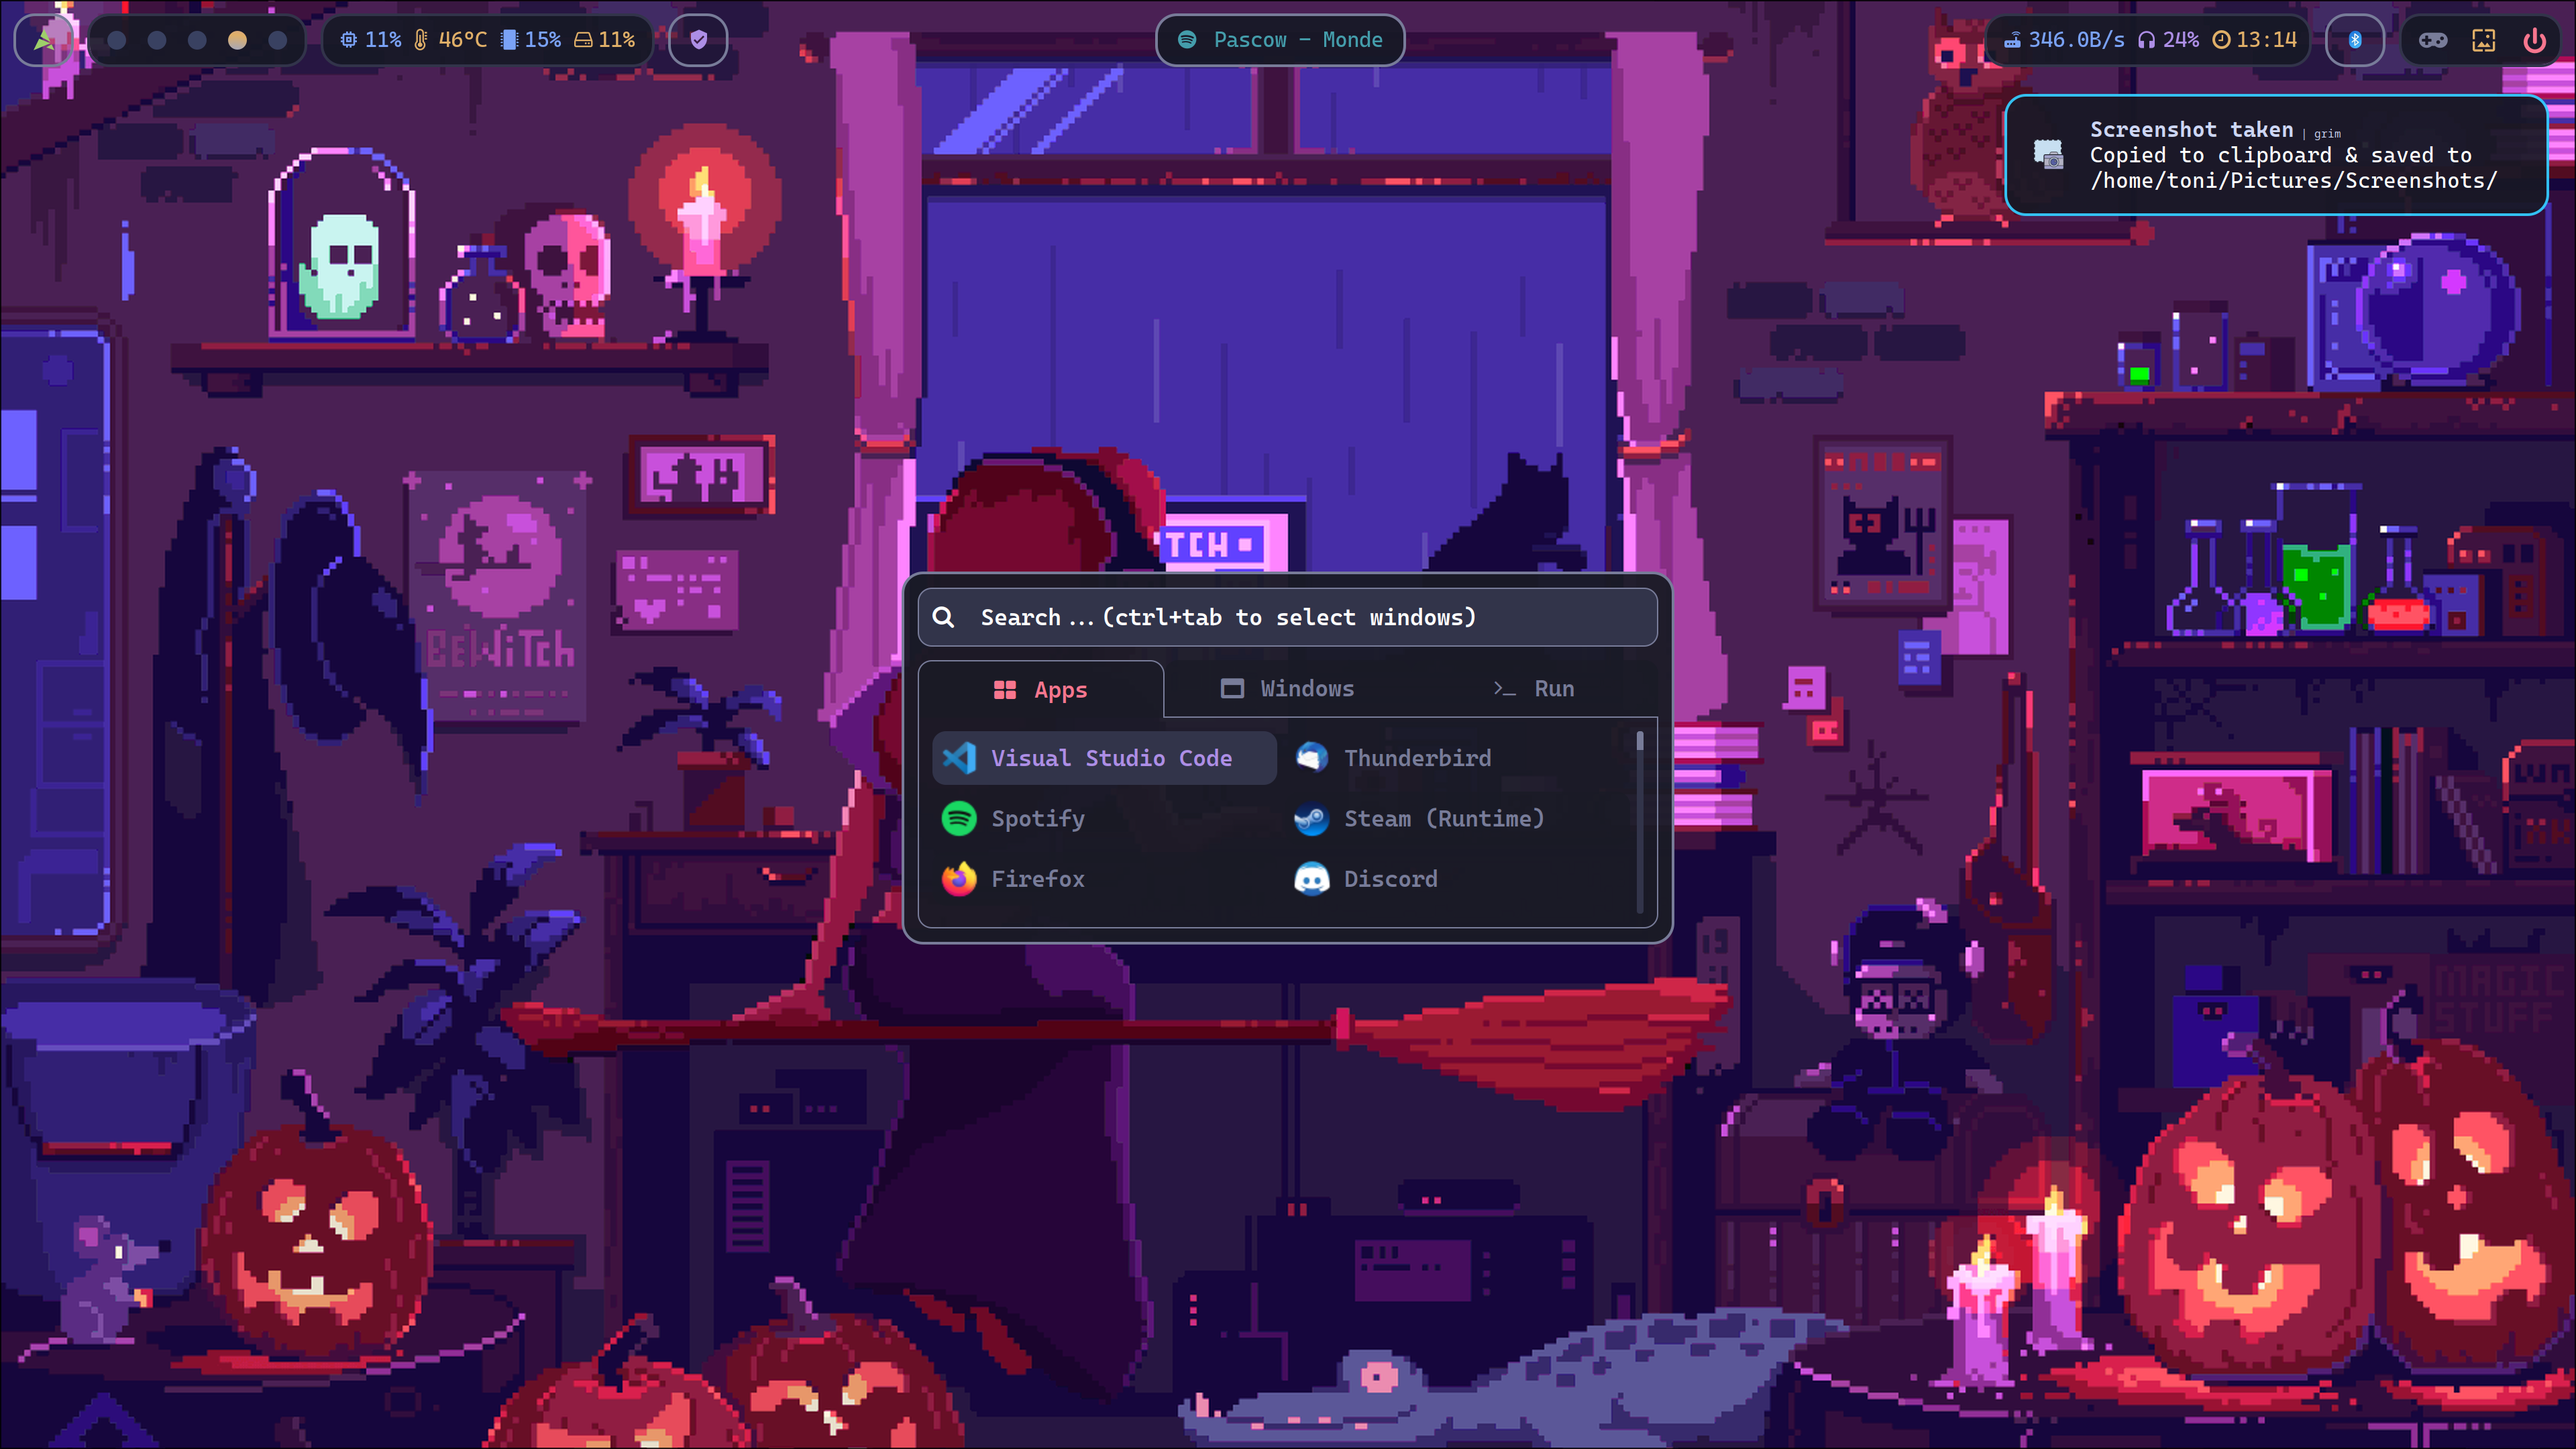
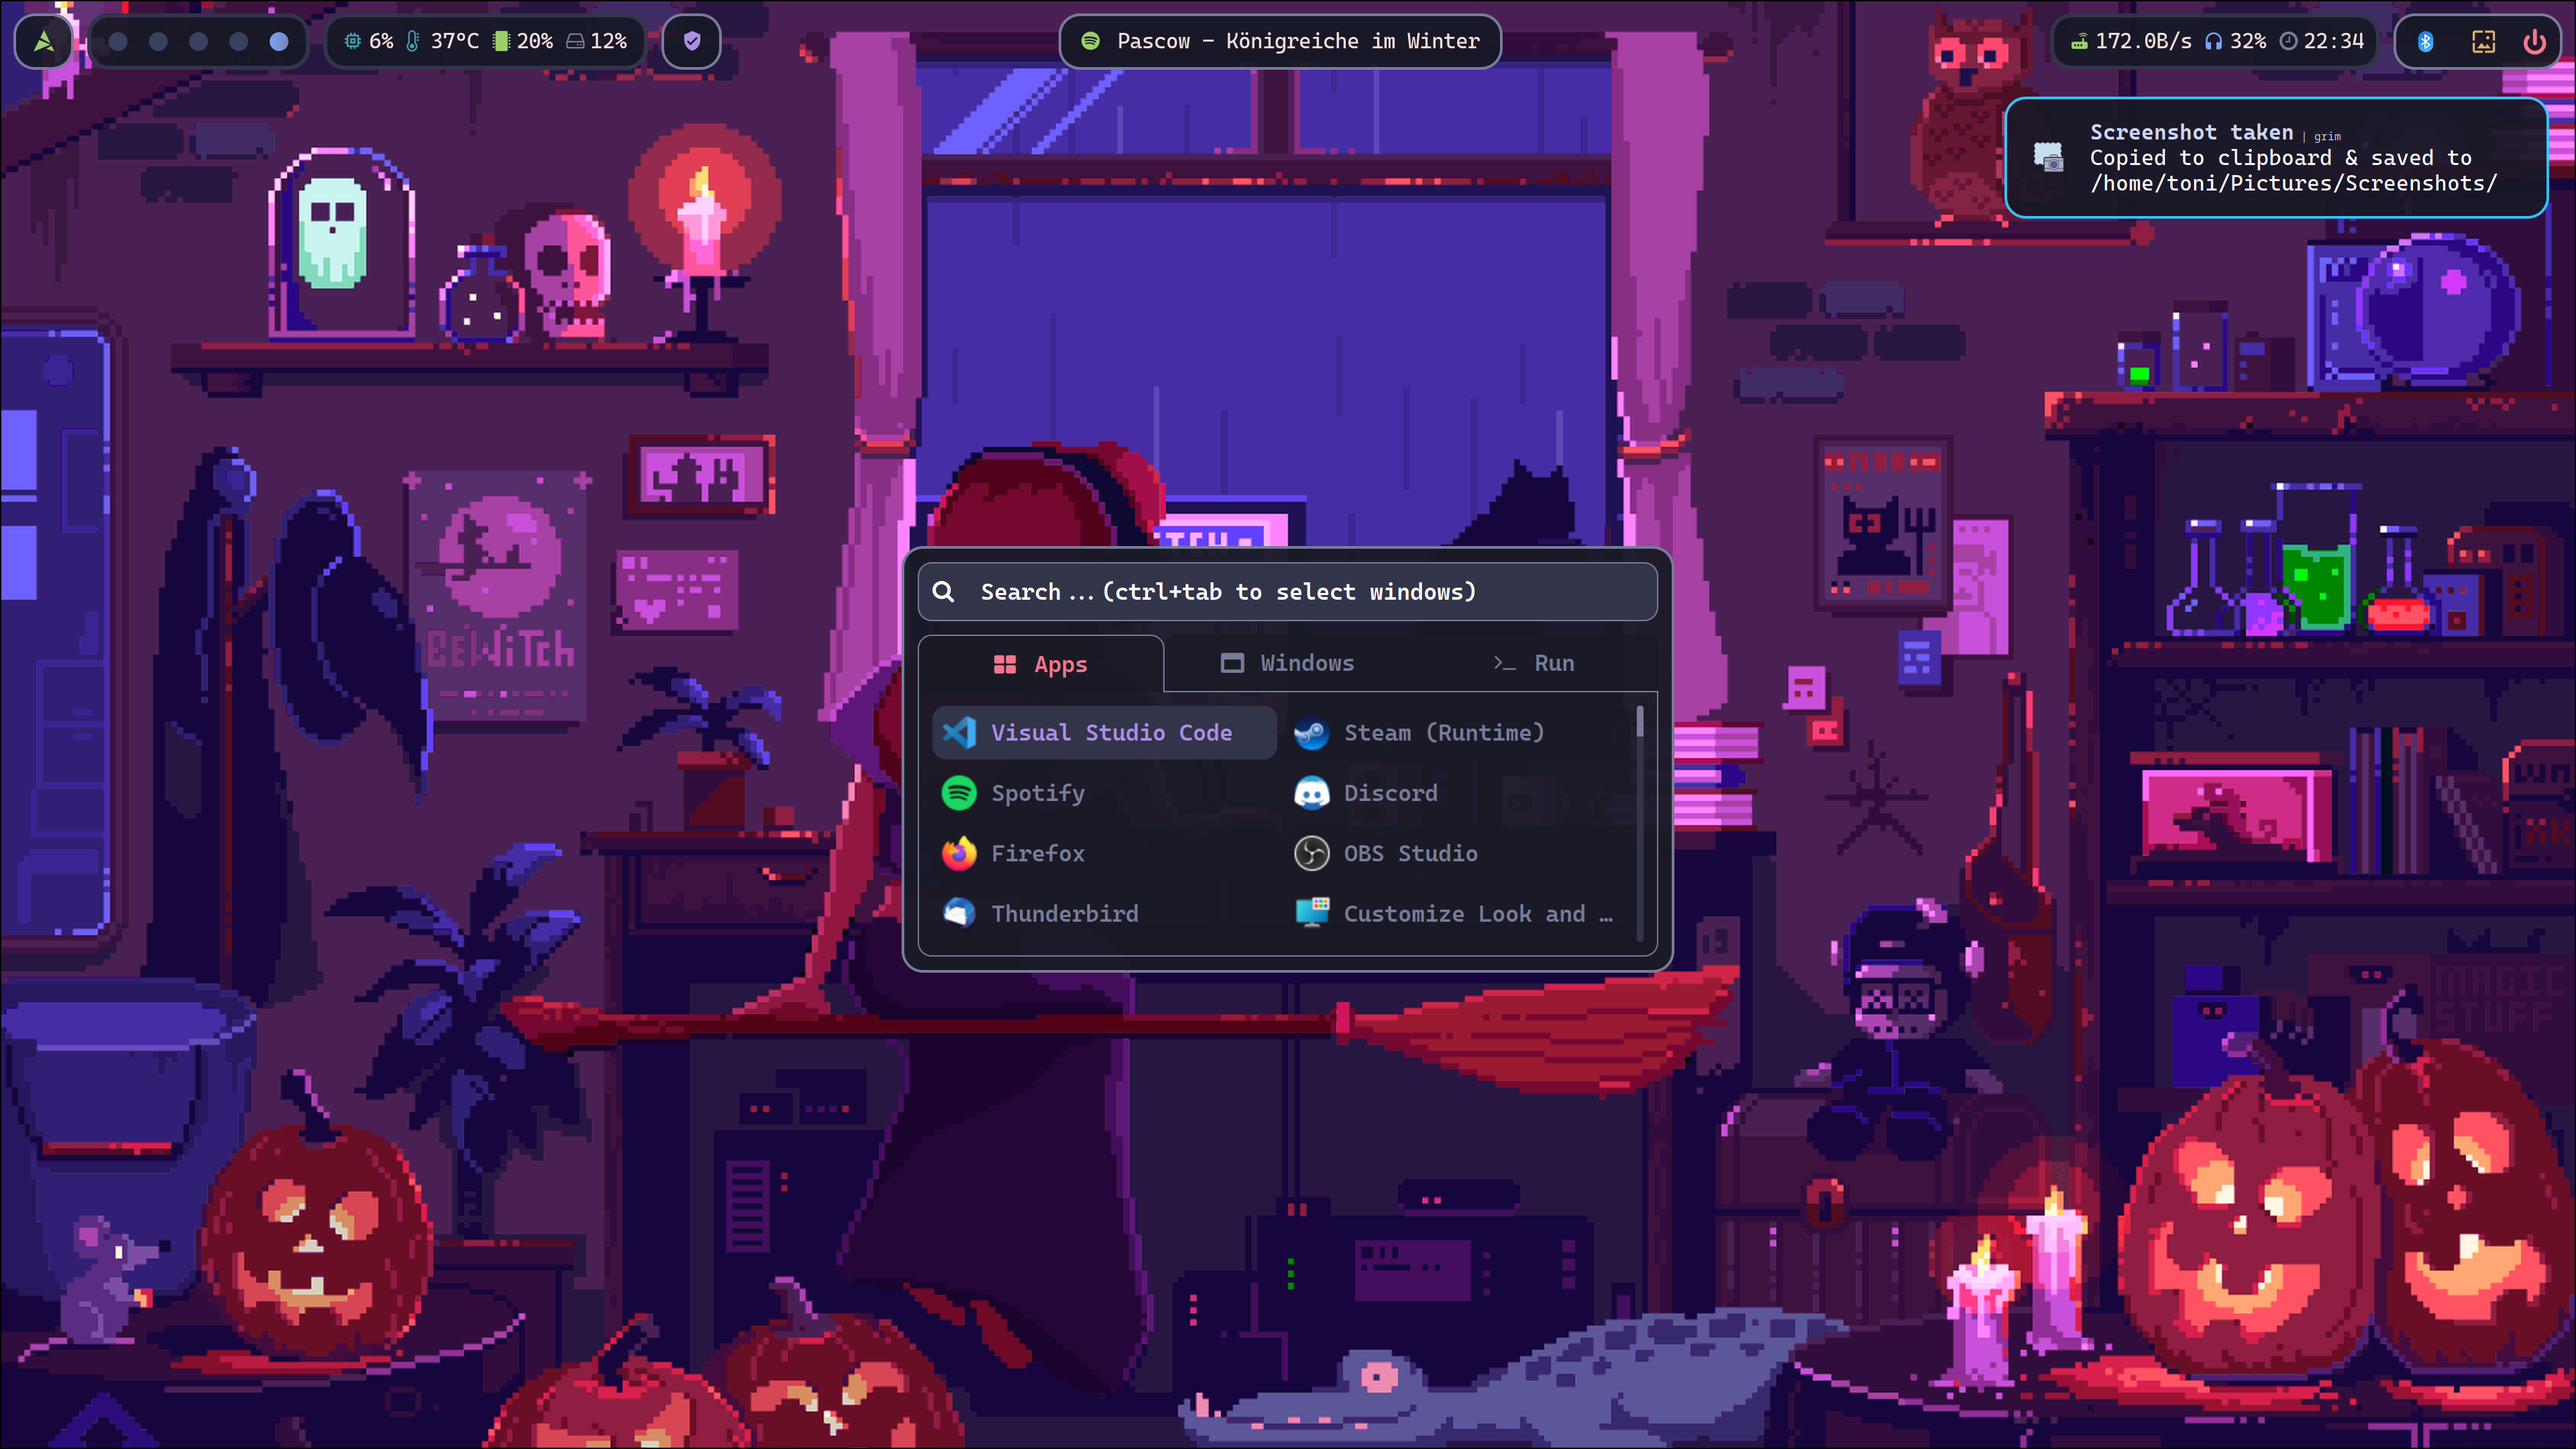
color of waybar change; spotify meta data retrieval adapted

diff --git a/user-home-folder/.config/waybar/style.css b/user-home-folder/.config/waybar/style.css
@@ -60,7 +60,7 @@ div * {
 
 /* Left modules - definition */
 #custom-launcher {
-    background-color: @surface1;
+    /* background-color: @surface1; */
     border: solid 2px;
     border-color: @tokio_night_white;
     color: @tokio_night_green;
@@ -70,11 +70,10 @@ div * {
 }
 
 #workspaces {
-    border: solid 2px;
+    border: solid 3px;
     border-color: @tokio_night_black;
     padding-left: 5px;
     padding-right: 5px;
-    
 }
 
 #workspaces * {
@@ -95,8 +94,8 @@ div * {
 #workspaces button.active {
     animation: gradient_f 10s ease-in-out infinite;
     background: radial-gradient(circle,
-        @tokio_night_blue 0%,
-        @tokio_night_yellow 50%,
+        @tokio_night_white 0%,
+        @tokio_night_blue 50%,
         @tokio_night_magenta 100%
     );
     background-size: 400% 400%;
@@ -108,23 +107,23 @@ div * {
 }
 
 #cpu {
-    border: solid 2px;
+    border: solid 3px;
     border-right: 0px;
     border-color: @tokio_night_black;
     border-top-right-radius: 0;
     border-bottom-right-radius: 0;
-    color: @tokio_night_blue;
+    color: @tokio_night_cyan;
     margin-right: 0px;
     padding-right: 5px;
 }
 
 #custom-temp {
-    border: solid 2px;
+    border: solid 3px;
     border-left: 0px;
     border-right: 0px;
     border-color: @tokio_night_black;
     border-radius: 0px;
-    color: @tokio_night_blue;
+    color: @tokio_night_cyan;
     margin-right: 0px;
     padding-left: 5px;
     padding-right: 5px;
@@ -139,31 +138,31 @@ div * {
 }
 
 #memory {
-    border: solid 2px;
+    border: solid 3px;
     border-left: 0px;
     border-right: 0px;
     border-color: @tokio_night_black;
     border-radius: 0px;
-    color: @tokio_night_blue;
+    color: @tokio_night_green;
     margin-right: 0px;
     padding-left: 5px;
     padding-right: 5px;
 }
 
 #disk {
-    border: solid 2px;
+    border: solid 3px;
     border-left: 0px;
     border-color: @tokio_night_black;
     border-top-left-radius: 0;
     border-bottom-left-radius: 0;
-    color: @tokio_night_yellow;
+    color: @tokio_night_white;
 
     padding-left: 5px;
     padding-right: 1rem;
 }
 
 #custom-system-updates {
-    background-color: @surface1;
+    /* background-color: @surface1; */
     border: solid 2px;
     border-color: @tokio_night_white;
     color: @tokio_night_magenta;
@@ -186,7 +185,7 @@ div * {
 #custom-spotify-metadata {
     border: solid 2px;
     border-color: @tokio_night_white;
-    color: @tokio_night_cyan;
+    color: @tokio_night_green;
     padding-left: 15px;
     padding-right: 15px;
 }
@@ -194,48 +193,35 @@ div * {
 
 /* Right modules - definition */
 #network {
-    border: solid 2px;
+    border: solid 3px;
     border-right: 0px;
     border-color: @tokio_night_black;
     border-top-right-radius: 0;
     border-bottom-right-radius: 0;
-    color: @tokio_night_blue;
+    color: @tokio_night_green;
     margin-right: 0px;
     padding-right: 0px;
 }
 
 #pulseaudio {
-    border: solid 2px;
+    border: solid 3px;
     border-left: 0px;
     border-right: 0px;
     border-color: @tokio_night_black;
     border-radius: 0;
-    color: @tokio_night_magenta;
+    color: @tokio_night_blue;
     margin-right: 0px;
     padding-left: 10px;
     padding-right: 10px;
   }
 
-#custom-speaker {
-    border: solid 2px;
-    border-left: 0px;
-    border-right: 0px;
-    border-color: @tokio_night_black;
-    border-radius: 0;
-    color: @tokio_night_magenta;
-    font-size: 18px;
-    margin-right: 0px;
-    padding-left: 0px;
-    padding-right: 15px;
-}
-
 #clock {
-    border: solid 2px;
+    border: solid 3px;
     border-left: 0px;
     border-color: @tokio_night_black;
     border-top-left-radius: 0;
     border-bottom-left-radius: 0;
-    color: @tokio_night_yellow;
+    color: @tokio_night_white;
 
     padding-left: 0px;
     padding-right: 0px;
@@ -243,10 +229,13 @@ div * {
 }
 
 #tray {
-    background-color: @surface1;
+    /* background-color: @surface1; */
     border: solid 2px;
+    border-right: 0px;
+    border-top-right-radius: 0px;
+    border-bottom-right-radius: 0px;
     border-color:@tokio_night_white;
-    margin-right: 10px;
+    margin-right: 0px;
 }
 
 /* https://github.com/Alexays/Waybar/wiki/Module:-Tray */
@@ -265,9 +254,9 @@ div * {
     color: @tokio_night_white;
 } */
 
-#custom-gamemode {
+/* #custom-gamemode {
   color: @tokio_night_white;
-  border: solid 2px;
+  border: solid 3px;
   border-right: 0px;
   border-color: @tokio_night_black;
   border-top-right-radius: 0;
@@ -275,13 +264,13 @@ div * {
   font-size: 20px;
   margin-right: 0px;
   padding-right: 15px;
-}
+} */
 
 #custom-wallpaper {
     border: solid 2px;
-    border-left: 0px;
+    border-left: dashed 0px;
     border-right: 0px;
-    border-color: @tokio_night_black;
+    border-color: @tokio_night_white;
     border-radius: 0px;
     color: @tokio_night_yellow;
     font-size: 20px;
@@ -291,7 +280,7 @@ div * {
 #custom-power {
     border: solid 2px;
     border-left: 0px;
-    border-color: @tokio_night_black;
+    border-color: @tokio_night_white;
     border-top-left-radius: 0;
     border-bottom-left-radius: 0;
     color: @tokio_night_red;

diff --git a/user-home-folder/.config/waybar/css/colors.css b/user-home-folder/.config/waybar/css/colors.css
@@ -15,9 +15,6 @@
 @define-color tokio_night_white     #787c99;
 
 
-
-
-
 @define-color catppuccin_blue       #89b4fa;
 @define-color catppuccin_lavender   #b4befe;
 @define-color catppuccin_sapphire   #74c7ec;

diff --git a/README.md b/README.md
@@ -11,12 +11,12 @@
 ## 🎨 Impressions
 
 <p align="center">
-<center><kbd><img alt="just-wallpaper-with-waybar" src="./assets/impression-wallpaper-change.png" style="width: 400px;"/></kbd></center><center><kbd><img alt="just-wallpaper-with-waybar" src="./assets/impression-rofi.png" style="width: 400px;"/></kbd></center>
+<center><kbd><img alt="just-wallpaper-with-waybar" src="./assets/impression-wallpaper.png" style="width: 400px;"/></kbd></center><center><kbd><img alt="just-wallpaper-with-rofi" src="./assets/impression-rofi.png" style="width: 400px;"/></kbd></center>
 </p>
 
 ## 🔥 To Do's
 
-- [ ] Parsing Spotify metadata via script is quite heavy on the processor (5% additional load, wtf)
+- [ ] Include cava into Spotify meta data
 
 ## 📖 Overview
 
